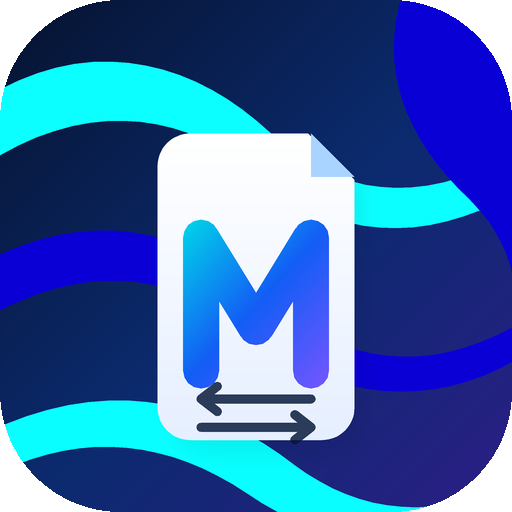
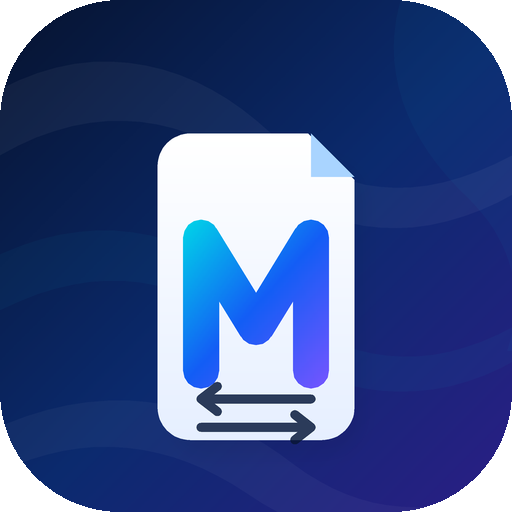
fix: repair Android resources and Kotlin APIs blocking CI
Correct Compose imports, font loading, template callback types, and SFNT name offsets. Expose temporary build diagnostics as annotations without pushing other branches.

diff --git a/app/src/main/java/com/marblemd/app/text/TrueTypeName.kt b/app/src/main/java/com/marblemd/app/text/TrueTypeName.kt
@@ -51,20 +51,18 @@ internal object TrueTypeName {
             val nameId = readUInt16(data, record + 6) ?: continue
             if (nameId !in 1..16) continue
             val length = readUInt16(data, record + 8) ?: continue
-            val valueOffset = readUInt32(data, record + 10) ?: continue
+            // SFNT name records are 12 bytes; their string offset is a uint16.
+            val valueOffset = readUInt16(data, record + 10) ?: continue
             val start = storage + valueOffset
             if (start < 0 || length <= 0 || start + length > data.size) continue
 
             val decoderIsUnicode = platformId == 0 || (platformId == 3 && encodingId in 0..10)
-            val decoded = if (decoderIsUnicode) {
-                decodeUtf16Be(data, start, length)
-            } else if (platformId == 1) {
-                decodeMacRoman(data, start, length)
-            } else {
-                null
-            } ?: continue
-
-            val cleaned = decoded.trim()
+            val decoded: String? = when {
+                decoderIsUnicode -> decodeUtf16Be(data, start, length)
+                platformId == 1 -> decodeMacRoman(data, start, length)
+                else -> null
+            }
+            val cleaned = decoded?.trim() ?: continue
             if (cleaned.isEmpty() || cleaned.any { it.isISOControl() }) continue
 
             // Later (higher nameId priority is handled below) - keep the first

diff --git a/app/src/test/java/com/marblemd/app/text/TrueTypeNameTest.kt b/app/src/test/java/com/marblemd/app/text/TrueTypeNameTest.kt
@@ -43,6 +43,18 @@ class TrueTypeNameTest {
     }
 
     @Test
+    fun readsNamesWhoseStringOffsetExceedsOneByte() {
+        val font = buildFont(
+            listOf(
+                NameRecord(3, 1, nameId = 1, value = "Legacy family ".repeat(30)),
+                NameRecord(3, 1, nameId = 16, value = "Preferred Family")
+            )
+        )
+
+        assertEquals("Preferred Family", TrueTypeName.familyName(font))
+    }
+
+    @Test
     fun malformedNameTableDoesNotCrash() {
         val font = buildFont(
             listOf(NameRecord(3, 1, nameId = 1, value = "Broken")),
@@ -116,7 +128,7 @@ class TrueTypeNameTest {
             writeUInt16(record?.nameId ?: 0)
             val bytes = record?.value?.length?.times(2) ?: 0
             writeUInt16(if (index < stringOffsets.size) bytes else 0)
-            writeUInt32(stringOffsets.getOrElse(index) { 0 })
+            writeUInt16(stringOffsets.getOrElse(index) { 0 })
         }
 
         output.write(strings.toByteArray())

diff --git a/app/src/main/java/com/marblemd/app/ui/MarkdownEditor.kt b/app/src/main/java/com/marblemd/app/ui/MarkdownEditor.kt
@@ -67,11 +67,11 @@ import androidx.compose.ui.text.SpanStyle
 import androidx.compose.ui.text.TextLayoutResult
 import androidx.compose.ui.text.TextRange
 import androidx.compose.ui.text.TextStyle
-import androidx.compose.ui.text.TransformedText
-import androidx.compose.ui.text.VisualTransformation
 import androidx.compose.ui.text.drawText
 import androidx.compose.ui.text.font.FontFamily
 import androidx.compose.ui.text.input.TextFieldValue
+import androidx.compose.ui.text.input.TransformedText
+import androidx.compose.ui.text.input.VisualTransformation
 import androidx.compose.ui.text.rememberTextMeasurer
 import androidx.compose.ui.text.font.FontWeight
 import androidx.compose.ui.text.style.TextAlign
@@ -82,6 +82,7 @@ import com.marblemd.app.editor.MarkdownAction
 import com.marblemd.app.editor.MarkdownHighlighter
 import com.marblemd.app.editor.applyMarkdownAction
 import com.marblemd.app.editor.findMatches
+import kotlinx.coroutines.launch
 import kotlin.math.roundToInt
 
 /**

diff --git a/app/src/main/java/com/marblemd/app/text/FontRegistry.kt b/app/src/main/java/com/marblemd/app/text/FontRegistry.kt
@@ -79,16 +79,8 @@ internal class FontRegistry(private val context: Context) {
             Typeface.createFromFile(file)
         }.getOrNull() ?: return defaultTypeface
 
-        // The user font is the primary face; Android's multilingual stack
-        // covers whatever it does not contain.
-        return runCatching {
-            if (Build.VERSION.SDK_INT >= Build.VERSION_CODES.Q) {
-                Typeface.CustomFallbackBuilder(base)
-                    .setSystemFallback("sans-serif")
-                    .build()
-            } else {
-                base
-            }
-        }.getOrDefault(base)
+        // Android's own font fallback supplies whichever glyphs the user font
+        // is missing, so the typeface loaded from file is all we need.
+        return base
     }
 }

diff --git a/app/src/main/java/com/marblemd/app/ui/ReaderScreen.kt b/app/src/main/java/com/marblemd/app/ui/ReaderScreen.kt
@@ -114,7 +114,7 @@ fun ReaderScreen(
     onScrollTargetHandled: () -> Unit,
     onScrollPositionChange: (String, Int) -> Unit,
     onOpen: () -> Unit,
-    onNewFile: () -> Unit,
+    onNewFile: (MarkdownTemplate) -> Unit,
     onOpenRecent: (RecentDocument) -> Unit,
     onRemoveRecent: (RecentDocument) -> Unit,
     onClearRecents: () -> Unit,

diff --git a/app/src/test/java/com/marblemd/app/editor/MarkdownActionsTest.kt b/app/src/test/java/com/marblemd/app/editor/MarkdownActionsTest.kt
@@ -1,6 +1,6 @@
 package com.marblemd.app.editor
 
-import androidx.compose.ui.text.TextFieldValue
+import androidx.compose.ui.text.input.TextFieldValue
 import androidx.compose.ui.text.TextRange
 import org.junit.Assert.assertEquals
 import org.junit.Assert.assertTrue

diff --git a/app/src/main/java/com/marblemd/app/editor/MarkdownActions.kt b/app/src/main/java/com/marblemd/app/editor/MarkdownActions.kt
@@ -1,6 +1,6 @@
 package com.marblemd.app.editor
 
-import androidx.compose.ui.text.TextFieldValue
+import androidx.compose.ui.text.input.TextFieldValue
 import androidx.compose.ui.text.TextRange
 
 /**

diff --git a/tools/generate-icons.py b/tools/generate-icons.py
@@ -74,6 +74,14 @@ def with_alpha(hex_color: str, alpha: float) -> str:
     return "#{:02X}{}".format(max(0, min(255, round(alpha * 255))), hex_color.lstrip("#"))
 
 
+def opaque(hex_color: str) -> str:
+    """Strip the alpha channel: Android applies opacity via fillAlpha/strokeAlpha."""
+    value = hex_color.lstrip("#")
+    if len(value) == 8:
+        value = value[2:]
+    return "#" + value[-6:]
+
+
 def sample_gradient(stops: Sequence[tuple[float, str]], t: float) -> tuple[int, int, int]:
     t = max(0.0, min(1.0, t))
     for index in range(len(stops) - 1):
@@ -314,7 +322,7 @@ def background_shapes() -> list[Shape]:
     ]
     for index, (path, alpha, color) in enumerate(MARBLE_VEINS):
         shapes.append(
-            Shape(path=path, color=with_alpha(color, alpha), name=f"bg-vein-{index}")
+            Shape(path=path, color=color, alpha=alpha, name=f"bg-vein-{index}")
         )
     return shapes
 
@@ -353,13 +361,7 @@ def foreground_shapes() -> list[Shape]:
 def monochrome_shapes() -> list[Shape]:
     """Themed-icon silhouette: page outline, solid monogram, bidi cue."""
     return [
-        Shape(
-            path=PAGE_PATH,
-            color="#FFFFFFFF",
-            alpha=0.0,
-            stroke=4.6,
-            name="mono-page",
-        ),
+        Shape(path=PAGE_PATH, color="#FFFFFFFF", stroke=4.6, name="mono-page"),
         Shape(path=MONOGRAM_PATH, color="#FFFFFFFF", name="mono-monogram"),
         Shape(path=RTL_ARROW_PATH, color="#FFFFFFFF", name="mono-bidi-rtl"),
         Shape(path=LTR_ARROW_PATH, color="#FFFFFFFF", name="mono-bidi-ltr"),
@@ -491,9 +493,11 @@ def shape_to_xml(shape: Shape, indent: str = "    ") -> str:
             f'android:strokeWidth="{shape.stroke:g}"',
             'android:strokeLineJoin="round"',
             'android:strokeLineCap="round"',
-            f'android:strokeColor="{with_alpha(shape.color or "#FFFFFFFF", shape.alpha)}"',
-            'android:fillColor="#00000000"',
+            f'android:strokeColor="{opaque(shape.color or "#FFFFFFFF")}"',
         ]
+        if shape.alpha < 1.0:
+            attributes.append(f'android:strokeAlpha="{shape.alpha:g}"')
+        attributes.append('android:fillColor="#00000000"')
     if shape.gradient is not None:
         assert shape.start and shape.end
         items = "\n".join(
@@ -508,17 +512,19 @@ def shape_to_xml(shape: Shape, indent: str = "    ") -> str:
             f'android:endX="{shape.end[0]:g}" android:endY="{shape.end[1]:g}">\n'
             f"{items}\n"
             f"{indent}      </gradient>\n"
-            f"{indent}    </aapt:attr>\n"
+            f'{indent}    </aapt:attr>\n'
         )
     else:
         gradient = ""
     if shape.stroke is None and shape.gradient is None:
-        attributes.append(f'android:fillColor="{with_alpha(shape.color or "#00000000", shape.alpha)}"')
+        attributes.append(f'android:fillColor="{opaque(shape.color or "#00000000")}"')
+        if shape.alpha < 1.0:
+            attributes.append(f'android:fillAlpha="{shape.alpha:g}"')
     body = "".join(f"{indent}    {attribute}\n" for attribute in attributes)
     if gradient:
         # A <path> that carries an <aapt:attr> child must be closed with ">"
         # and terminated by </path>; a self-closing tag is invalid XML there.
-        return f"{indent}<path\n{body.rstrip(chr(10))}>\n{gradient}{indent}</path>\n"
+        return f"{indent}<path\n{body}    >\n{gradient}{indent}</path>\n"
     return f"{indent}<path\n{body}{indent}/>\n"
 
 
@@ -576,10 +582,10 @@ FEATURE_FONT = "/usr/share/fonts/truetype/dejavu/DejaVuSans.ttf"
 def in_app_mark() -> None:
     """Small single-colour mark used inside the app UI (tinted with the theme)."""
     shapes = [
-        Shape(path=PAGE_PATH, color="#FFFFFFFF", alpha=0.0, stroke=5.0, name="mark-page"),
+        Shape(path=PAGE_PATH, color="#FFFFFFFF", stroke=5.0, name="mark-page"),
         Shape(path=MONOGRAM_PATH, color="#FFFFFFFF", name="mark-monogram"),
-        Shape(path=RTL_ARROW_PATH, color="#FFFFFFFF", alpha=0.6, name="mark-bidi-rtl"),
-        Shape(path=LTR_ARROW_PATH, color="#FFFFFFFF", alpha=0.6, name="mark-bidi-ltr"),
+        Shape(path=RTL_ARROW_PATH, color="#FFFFFFFF", alpha=0.65, name="mark-bidi-rtl"),
+        Shape(path=LTR_ARROW_PATH, color="#FFFFFFFF", alpha=0.65, name="mark-bidi-ltr"),
     ]
     write(
         os.path.join(RES, "drawable", "ic_marblemd_mark.xml"),
